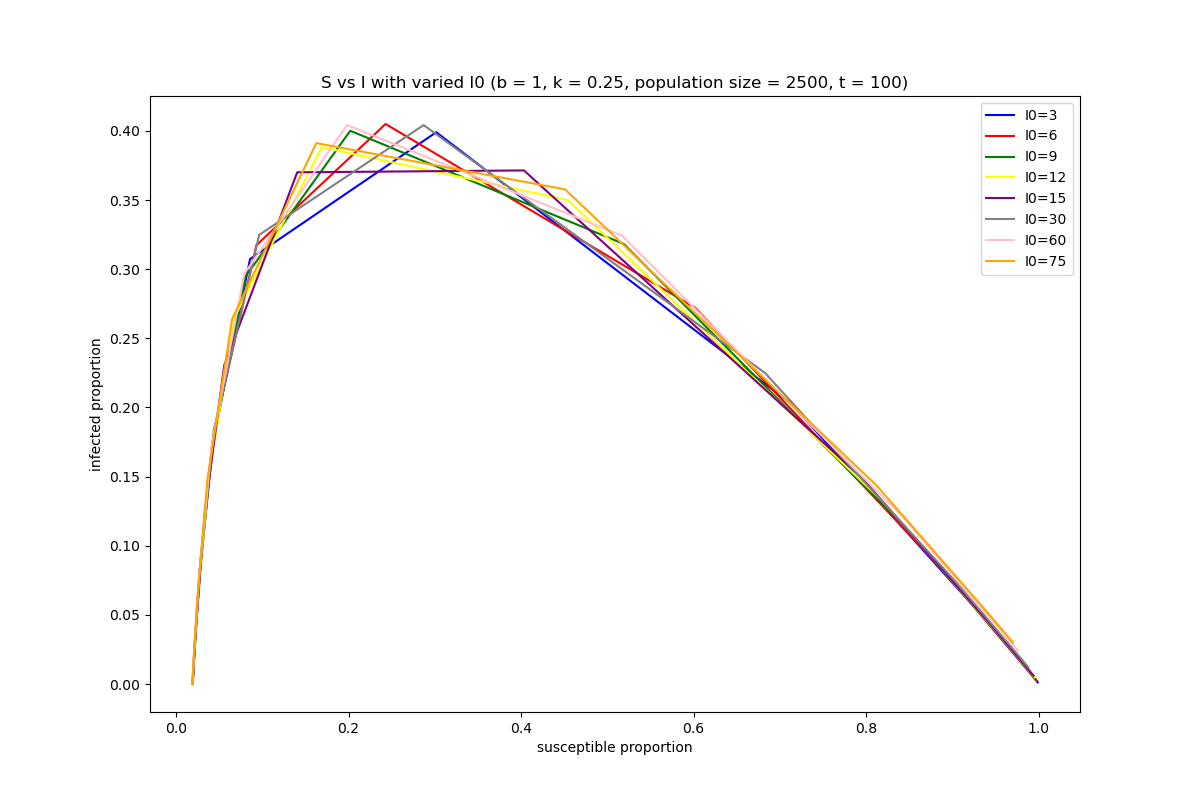
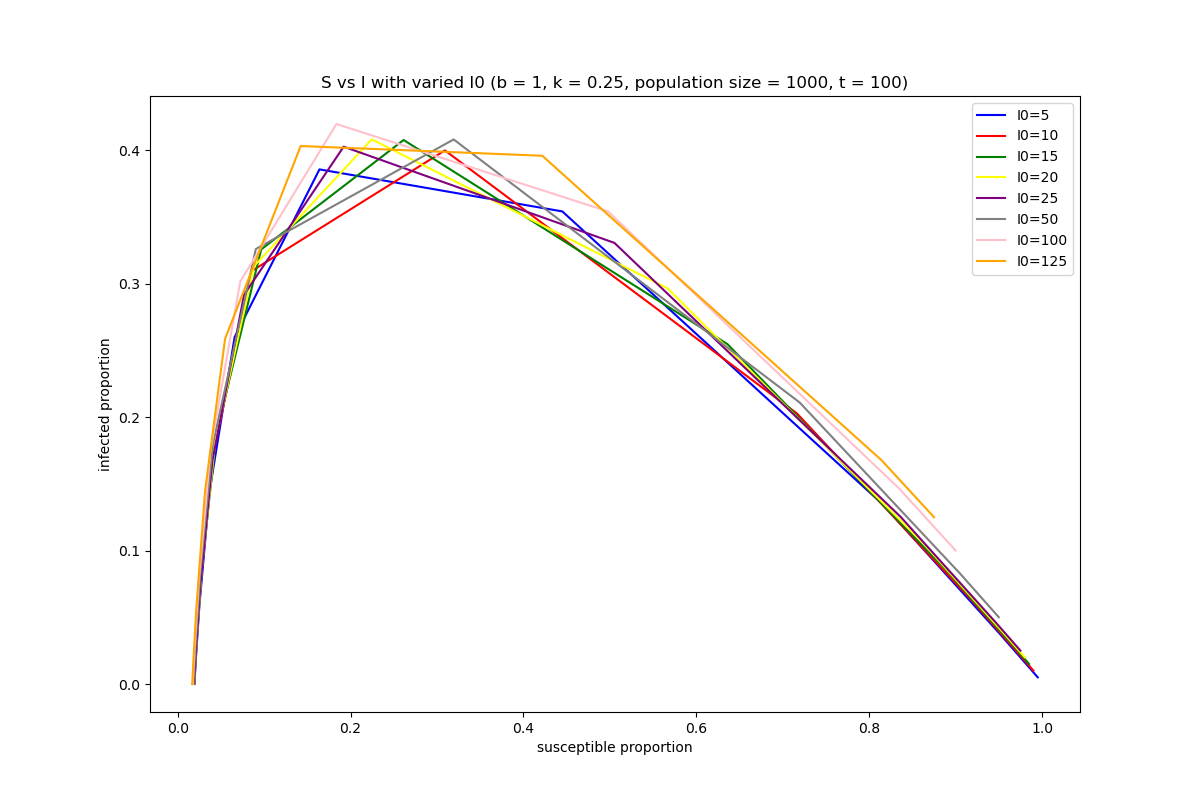
temp

diff --git a/Scripts/midterm_checkin_plots.py b/Scripts/midterm_checkin_plots.py
@@ -11,8 +11,8 @@ import matplotlib.pyplot as plt
 # fmt: on
 
 # parameters
-Population = 50000
-initial_infected = 50
+Population = 1000
+initial_infected = 5
 initial_proportion = initial_infected / Population
 time_span = 100
 
